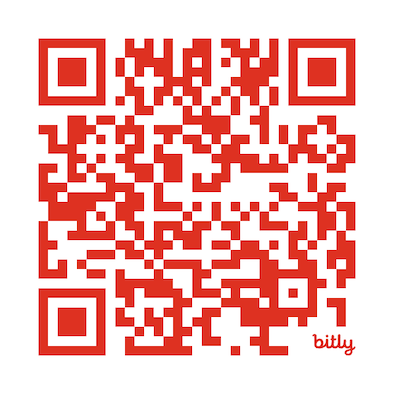
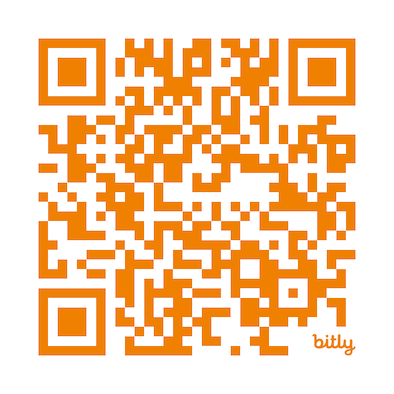
Pasha Finkelshteyn for Crafting Docker Image for Spring Apps - March 2025

diff --git a/sections/cjug.md b/sections/cjug.md
@@ -1,23 +1,19 @@
-#### Chicago Java Users Group -and- Chicago Kotlin Users Group
+### Chicago Java Users Group
 ---
-##### March 13, 2025
-#### Architect's Guide to Managing A Code Base
-#### by Pratik Patel
+#### March 19, 2025
+#### Crafting the Ultimate Docker Image for Spring Applications
+### by Pasha Finkelshteyn
 <div style="background-color: white; margin-top: 10px;">
 	<img src="images/cjug.gif" style="border: 20px; box-shadow:none; margin:5px"/>
 </div>
-<div style="background-color: white; margin-top: 10px;">
-	<img src="images/ckug.jpeg" style="border: 20px; box-shadow:none; margin:5px"/>
-</div>
 
 --section--
-## Today's Raffles
-##### 1 JetBrains license and 
-###### 1 Free Admission to No Fluff Just Stuff - Great Lakes Symposium (in-person only*)
+## Today's Raffle
+##### 1 JetBrains license
 <img src="images/JetBrains-2022-twitter.jpg" style="border:none; box-shadow:none; margin: 14px; background:white;"/>
 <img src="images/CJUG-JB-raffle-QR.png" style="border:none; box-shadow:none; margin: 14px; background:white;"/>
 <br/>
-##### Submit your info here to enter into the drawings: [https://bit.ly/4bSn7WH](https://bit.ly/4bSn7WH)
+##### Submit your info here to enter into the drawings: [https://bit.ly/4hlW3Ay](https://bit.ly/4hlW3Ay)
 ####NOTE: You are ineligible to participate in the JetBrains Raffles
 ####if you won a license within the last 9 months!
 
@@ -44,7 +40,7 @@
 
 <img src="images/cjug-discord-qrcode.png" style="border:none; box-shadow:none; margin: 30px; background:white;"/>
 
-Join this room: [#2025-03-13-architects-guide-codebase](https://discord.gg/QkNjKX9ed2)
+Join this room: [#2025-03-19-docker-spring](https://discord.gg/cb3wsz3FSh)
 
 --section--
 ##Community Info
@@ -58,8 +54,7 @@ Join this room: [#2025-03-13-architects-guide-codebase](https://discord.gg/QkNjK
 --section--
 ## Upcoming Event(s)
 
-* [March 19 - Pasha Finkelshteyn (BellSoft)](https://meetup.com/chicagojug/events/306529558)
-* April 10: Jerason Banes (Invirgance) (at U-Chicago Gleacher Center)
+* *April 10: Jerason Banes (Invirgance) (at U-Chicago Gleacher Center)*
 * May 13: Speaker from Temporal (at Improving)
 * June: Lightning Talks - Inviting all CJUG and CKUG member to submit talk proposals
 <br/><br/>

diff --git a/sections/speaker.md b/sections/speaker.md
@@ -1,15 +1,11 @@
-### Our Special Speaker today
+### Our Special Speaker today - from Berlin
 
-## Pratik Patel [@prpatel](https://linkedin.com/in/prpatel)
-- VP of Developer Advocacy at [Azul](https://azul.com)
-- Leads teams, build products and software, as well as startup companies
-- A deeply experienced developer, lead architect, lead developer advocate, and CTO
-- Author of several books on Java and software development
-- Java Champion, and among a select group of recognized Java technologists
-- Active Java and general tech community leader
-- Current President of the Atlanta JUG, also leads the JS and WebDev meetup groups in ATL
-- Started and organizes the JUG Leader Summit since 2020, Organizer of Devnexus and other confs
-
+## Pasha Finkelshteyn [@asm0dey](https://www.linkedin.com/in/asm0dey/)
+- Deeply hands-on and very experienced Developer Advocate - Liberica at [BellSoft](https://bell-sw.com)
+- Previously at JetBrains as a developer and then developer advocate - from Russia to Germany
+- Data engineering and polyglot developer - JVM languages (Java, Kotlin, Clojure...), JS/TS, Python...
+- Experienced developer and Team Lead at various companies in Moscow, Russia
+- Presented at DevOpsDays-Chicago earlier this week!
 
 
 

diff --git a/sections/sponsors.md b/sections/sponsors.md
@@ -6,10 +6,11 @@
 <img src="images/neo4j_2024_raffle.png" style="border:none; box-shadow:none; margin: 30px; background:white;"/>
 
 --section--
-### Our Venue and Refreshment Host - GrubHub 
-## Thank You John Burns!
-#### Sr. Staff Engineer, CKUG Organizer and CJUG Partner
-<img src="images/grubhub.jpeg" style="border:none; box-shadow:none; margin: 30px; background:white;"/>
+### Our Venue Host - Microsoft
+#### Thank You David Giard (booking the room!)
+#### Thank You Craig Jahnke (hosting us!)
+<img src="images/microsoft-standard.png" style="border:none; box-shadow:none; margin: 30px; background:white;"/>
+
 
 --section--
 # Friends of CJUG
